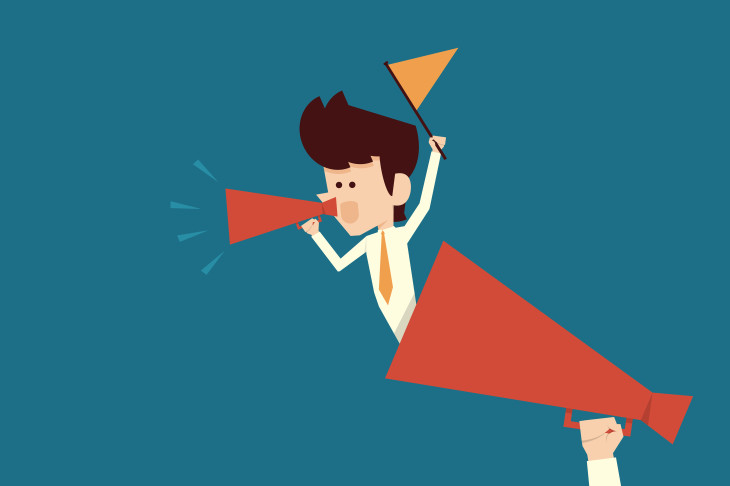
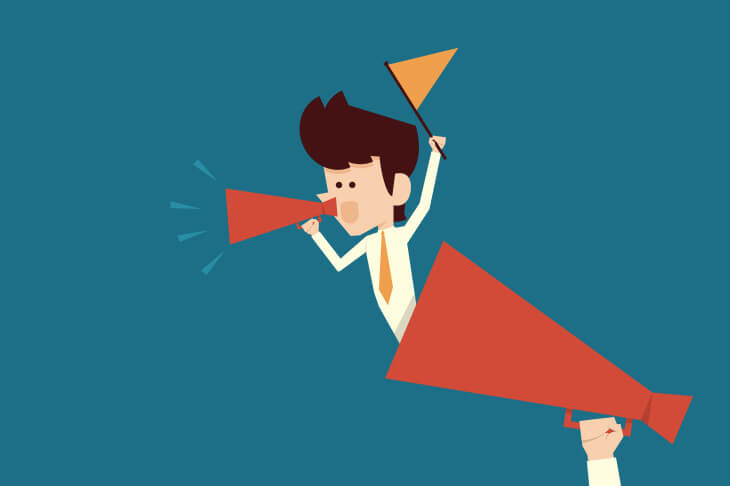
FIX : UI issues done

diff --git a/src/components/InfluncerCreativeApprovalTab/index.js b/src/components/InfluncerCreativeApprovalTab/index.js
@@ -23,9 +23,19 @@ const InfluncerCreativeApprovalTab = ({ defaultActiveKey }) => {
     <div className='tab-applied-proposal'>
       <Tabs defaultActiveKey='campaigns' onChange={callback}>
         {/* campaigns tab */}
-        {/* <TabPane tab='Campaigns' key='campaigns'>
-          <BrandListCard name='Influencer Name Here rejected' img={ } uploadCreative />
-        </TabPane> */}
+        <TabPane tab='Campaigns' key='campaigns'>
+          <BrandListCard
+            name='Nestle Advertisement'
+            img={img1}
+            uploadCreative
+          />
+          <BrandListCard
+            name='Campaign Name Two'
+            img={influencer}
+            uploadCreative
+          />
+          <BrandListCard name='Campaign Name Three' img={img2} uploadCreative />
+        </TabPane>
 
         {/* pending tab */}
         <TabPane tab='Pending(12)' key='pending'>

diff --git a/src/components/BrandListCard/index.js b/src/components/BrandListCard/index.js
@@ -17,11 +17,13 @@ const BrandListCard = ({ name, uploadCreative, img, disabled }) => {
         </div>
         {uploadCreative ? (
           <div className='brand-list-btn'>
-            <CreativeUploadModal
-              btnText={disabled ? 'Approval Pending' : 'Upload Creative'}
-              style={`view-btn ${disabled && 'disabled'}`}
-              creativeUploads
-            />
+            {disabled ? null : (
+              <CreativeUploadModal
+                btnText={disabled ? 'Approval Pending' : 'Upload Creative'}
+                style={`view-btn ${disabled && 'disabled'}`}
+                creativeUploads
+              />
+            )}
           </div>
         ) : (
           <div className='brand-list-btn'>

diff --git a/src/containers/InfluencerPage/index.js b/src/containers/InfluencerPage/index.js
@@ -43,13 +43,13 @@ const InfluencerPage = (props) => {
               </div>
             )}
 
-            {activeTab == 'Creative Approval' && (
+            {activeTab == 'Creatives Approval' && (
               <InfluncerCreativeApprovalTab />
             )}
           </div>
-          <LineHeading title='Ongoing Projects' style='mt-30' />
+          {/* <LineHeading title='Ongoing Projects' style='mt-30' />
           <LineHeading title='Completed Projects' style='mt-30' />
-          <LineHeading title='Drafts' style='mt-30' />
+          <LineHeading title='Drafts' style='mt-30' /> */}
         </div>
       </div>
     </div>

diff --git a/src/components/CreativeModal/index.js b/src/components/CreativeModal/index.js
@@ -21,7 +21,13 @@ import infImg from 'assets/images/influencer.jpg';
 
 import './styles.scss';
 
-const CreativeModal = ({ src, className, versionTrue, influencerStatus }) => {
+const CreativeModal = ({
+  src,
+  className,
+  versionTrue,
+  influencerStatus,
+  emptystateInfluncer,
+}) => {
   const [visible, setVisible] = useState(false);
   const [showFiles, setShowFiles] = useState(false);
   const [playing, setPlaying] = useState(false);

diff --git a/src/components/InfluencerUploadModal/index.js b/src/components/InfluencerUploadModal/index.js
@@ -22,6 +22,7 @@ const CreativeUploadModal = ({
 
   const handleUploadNewFile = (value) => {
     setUploadNewFile(value);
+    setShowOldFile(false);
   };
 
   const showUploadFilesProgress = (value) => {
@@ -36,6 +37,7 @@ const CreativeUploadModal = ({
   const closeModal = (val) => {
     setVisible(val);
     setUploadNewFile('');
+    setShowOldFile(false);
   };
 
   return (

diff --git a/src/components/CreativeModal/styles.scss b/src/components/CreativeModal/styles.scss
@@ -4,9 +4,9 @@
 .custom-modal {
   padding-bottom: 30px;
 
-  .creative-modal {
-    padding-bottom: 30px;
-  }
+  // .creative-modal {
+  //   padding-bottom: 30px;
+  // }
 
   .ant-modal-close {
     border: 2px solid #dacfcf;
@@ -140,6 +140,7 @@
   }
 
   .mobile-section {
+    padding-bottom: 20px;
     @include mobile {
       flex-direction: column;
     }

diff --git a/src/common/dataManager.js b/src/common/dataManager.js
@@ -123,6 +123,8 @@ export const commentData = [
   },
 ];
 
+export const commentDataInfluencer = [];
+
 export const influncerNameDataApproved = [
   {
     name: 'Influencer Name 1',

diff --git a/src/components/InfluncerFileVideo/styles.scss b/src/components/InfluncerFileVideo/styles.scss
@@ -71,5 +71,9 @@
     width: 100% !important;
     height: 195px !important;
     background-color: black;
+
+    @include mobile {
+      height: 100px !important;
+    }
   }
 }

diff --git a/src/components/CommentBox/styles.scss b/src/components/CommentBox/styles.scss
@@ -26,7 +26,7 @@
   .comment-btns {
     display: flex;
     justify-content: flex-end;
-    margin-top: 18px;
+    margin-top: 4px;
   }
 
   .btn-submit {

diff --git a/src/containers/InfluencerPage/dataManager.js b/src/containers/InfluencerPage/dataManager.js
@@ -5,6 +5,6 @@ export const myTabs = [
   },
   {
     id: 2,
-    name: 'Creative Approval',
+    name: 'Creatives Approval',
   },
 ];
